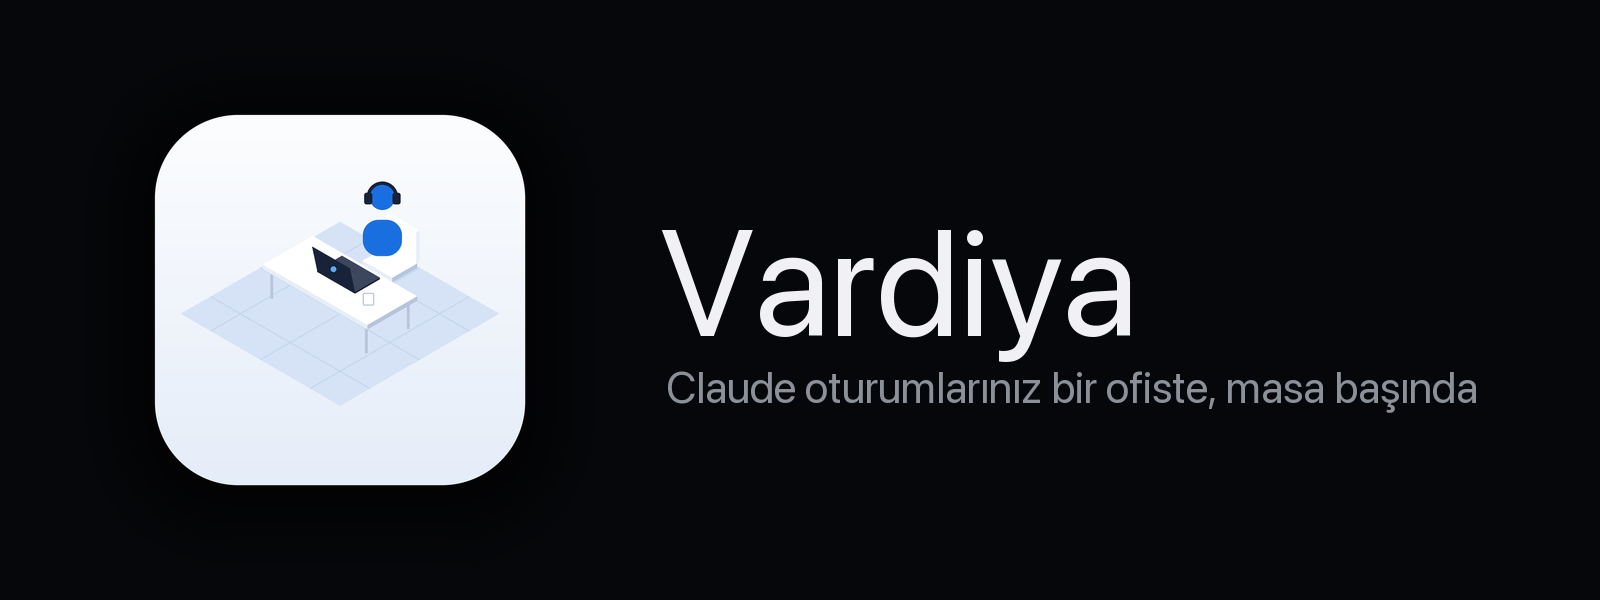
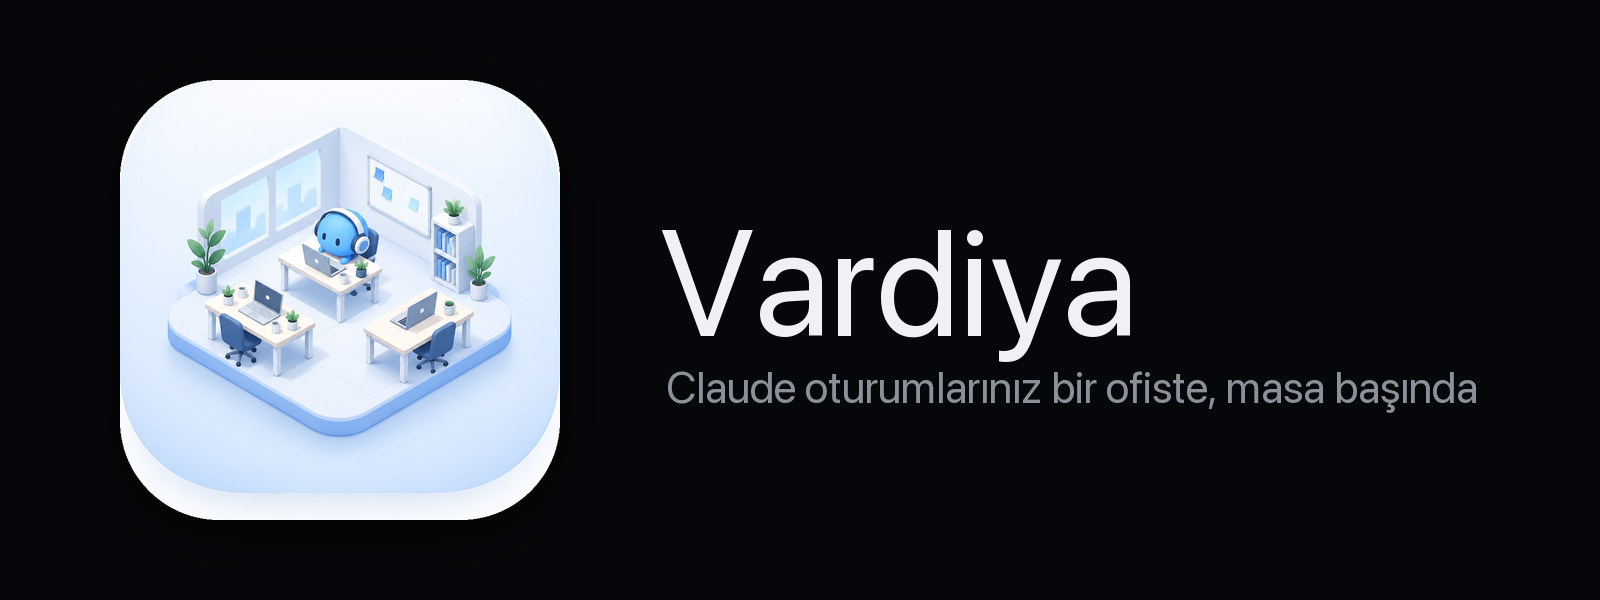
Higgsfield ile üretilen yeni ikon ve kapak; make_icon.py kaldırıldı

Changed region(s): [[0.0625, 0.12, 0.375, 0.87]]

diff --git a/README.md b/README.md
@@ -71,8 +71,6 @@ xcodebuild -project Vardiya.xcodeproj -scheme Vardiya -configuration Debug -deri
 open build/Build/Products/Debug/Vardiya.app
 ```
 
-İkonu, README logosunu ve kapağı yeniden üretmek için: `python3 scripts/make_icon.py` (Pillow gerekir).
-
 3D varlıkları yeniden üretmek için: `python3 scripts/build_assets.py`. Kenney paketlerini indirir, mobilyaları USDZ'ye çevirir, karakterleri eklem parçalarına ayırır ve animasyonları `animations.json`'a çıkarır. Yeni model eklediyseniz ardından `xcodegen generate` çalıştırın.
 
 Debug derlemesinde test parametreleri:
